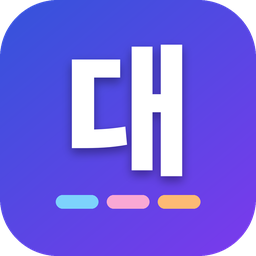
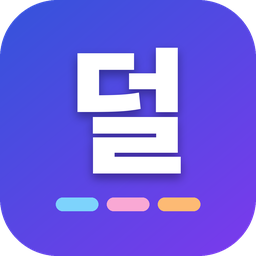
덜누름 워크로 이름 변경, 편집 화면에 떠 있는 홈 버튼
- 앱 이름·아이콘(덜)·화면 문구를 덜누름 워크로 (패키지 이름은 그대로라 덮어 설치 가능)
- 문서·사진·동영상 편집 화면에 끌어 옮길 수 있는 홈 버튼: 누르면 첫 화면으로, 편집기는 그대로 열려 있음
- 편집기마다 따로 된 작업으로 열려 서로 오갈 때 하던 작업이 남음
- 배포 파일 DeolnureumWork.apk (옛 이름 DaesinnamWork.apk도 같이)

Claude-Session: https://claude.ai/code/session_012mxsbgUq4bhBBvhf2zcgiK

diff --git a/app/src/main/assets/work/about.html b/app/src/main/assets/work/about.html
@@ -4,20 +4,20 @@
   <meta charset="UTF-8" />
   <meta name="viewport" content="width=device-width, initial-scale=1.0, viewport-fit=cover" />
   <meta http-equiv="Content-Security-Policy" content="default-src 'self'; style-src 'self'; img-src 'self' data:" />
-  <title>대신남 워크 정보</title>
+  <title>덜누름 워크 정보</title>
   <link rel="stylesheet" href="./work.css" />
 </head>
 <body>
   <div class="doc-page">
     <a class="back" href="./index.html">‹ 처음으로</a>
-    <h1>대신남 워크</h1>
+    <h1>덜누름 워크</h1>
     <p>버전 {{APP_VERSION}} · 빌드 {{BUILD}}</p>
-    <p>대신남 워크는 공개된 오픈소스 편집기 세 가지를 안드로이드용으로 고쳐 한 앱에 묶은 것입니다.
+    <p>덜누름 워크는 공개된 오픈소스 편집기 세 가지를 안드로이드용으로 고쳐 한 앱에 묶은 것입니다.
       아래 원작자들이 공개한 라이선스(Apache License 2.0, MIT)에 따라 배포하며, 각 원작의 저작권 표시와 라이선스 전문을 함께 넣었습니다.</p>
 
     <h2>포함된 오픈소스 편집기</h2>
     <table>
-      <tr><th>대신남 워크 기능</th><th>원작 (버전)</th><th>저작권자</th><th>라이선스</th></tr>
+      <tr><th>덜누름 워크 기능</th><th>원작 (버전)</th><th>저작권자</th><th>라이선스</th></tr>
       <tr><td>문서 편집</td><td><a href="https://github.com/pblsketch/ieumoffice">IeumOffice</a> ({{OFFICE_VER}})</td>
         <td>pblsketch · Mainfunc, Inc. (GenOffice)</td>
         <td><a href="./licenses/office/LICENSE.txt">Apache-2.0</a> · <a href="./licenses/office/NOTICE.txt">NOTICE</a> ·
@@ -33,10 +33,10 @@
     </table>
 
     <h2>원작에서 바꾼 것</h2>
-    <p class="muted">Apache License 2.0 제4조에 따라, 대신남 워크가 원작을 고친 내용을 알립니다.</p>
+    <p class="muted">Apache License 2.0 제4조에 따라, 덜누름 워크가 원작을 고친 내용을 알립니다.</p>
     <ul>
       <li>공통: 데스크톱·웹 프로그램을 안드로이드 WebView 안에서 돌도록 감싸고, 저장·열기·공유를 안드로이드 방식(파일 만들기·파일 고르기)으로 바꿨습니다.
-        제품 이름·아이콘·시작 화면 문구를 대신남 워크 것으로 바꿨습니다.</li>
+        제품 이름·아이콘·시작 화면 문구를 덜누름 워크 것으로 바꿨습니다.</li>
       <li>문서 편집(IeumOffice): Electron 대신 앱 안의 Node.js에서 데스크톱 메인 코드를 돌리는 호스트를 더했고,
         편집기 화면이 쓰는 자체 프로토콜 주소·CSP를 앱 주소로 바꿨으며, 엑셀 엔진(xlsx-sidecar)을 안드로이드용으로 컴파일했습니다.
         편집기 안에 표시되는 제품 이름을 바꿨습니다.</li>
@@ -46,7 +46,7 @@
     </ul>
 
     <h2>상표</h2>
-    <p class="muted">대신남 워크는 pblsketch, Mainfunc, Inc., ArtCraft 팀(storytold)과 관련이 없으며 그들의 후원이나 보증을 받지 않았습니다.
+    <p class="muted">덜누름 워크는 pblsketch, Mainfunc, Inc., ArtCraft 팀(storytold)과 관련이 없으며 그들의 후원이나 보증을 받지 않았습니다.
       "IeumOffice", "이음오피스", "GenOffice", "PhotoCraft", "FilmCraft", "ArtCraft"는 각 소유자의 이름이며, 위 표에서는 출처를 밝히려는 목적으로만 씁니다.
       편집기 안의 일부 메뉴·안내 문구에는 원작 이름이 그대로 남아 있을 수 있습니다.
       Microsoft, Word, Excel, PowerPoint, 한글, HWP, Adobe, Photoshop 등은 각 회사의 상표이며, 여는 파일 형식을 설명하는 데만 씁니다.</p>

diff --git a/node/fake-electron.js b/node/fake-electron.js
@@ -213,7 +213,7 @@ function createElectron(session) {
     clearStorageData() { return Promise.resolve(); },
     resolveProxy() { return Promise.resolve("DIRECT"); },
     setProxy() { return Promise.resolve(); },
-    getUserAgent() { return "DaesinnamWork-Android"; },
+    getUserAgent() { return "DeolnureumWork-Android"; },
     setUserAgent() {},
     fetch: (...a) => fetch(...a),
     setPreloads() {},
@@ -229,7 +229,7 @@ function createElectron(session) {
   // ---------- app ----------
   const dirs = session.dirs;
   const app = lenient(Object.assign(new EventEmitter(), {
-    name: "DaesinnamWork",
+    name: "DeolnureumWork",
     isPackaged: true,
     commandLine: lenient({ appendSwitch() {}, appendArgument() {}, hasSwitch() { return false; }, getSwitchValue() { return ""; }, removeSwitch() {} }, "commandLine"),
     dock: undefined,
@@ -247,7 +247,7 @@ function createElectron(session) {
     getPreferredSystemLanguages() { return ["ko-KR"]; },
     getLocaleCountryCode() { return "KR"; },
     getVersion() { return session.appVersion; },
-    getName() { return "DaesinnamWork"; },
+    getName() { return "DeolnureumWork"; },
     setName() {},
     quit() { session.log("app.quit() 무시"); },
     exit() { session.log("app.exit() 무시"); },

diff --git a/app/src/main/assets/work/index.html b/app/src/main/assets/work/index.html
@@ -4,14 +4,14 @@
   <meta charset="UTF-8" />
   <meta name="viewport" content="width=device-width, initial-scale=1.0, viewport-fit=cover" />
   <meta http-equiv="Content-Security-Policy" content="default-src 'self'; script-src 'self'; style-src 'self'; img-src 'self' data:" />
-  <title>대신남 워크</title>
+  <title>덜누름 워크</title>
   <link rel="stylesheet" href="./work.css" />
 </head>
 <body>
   <header class="top">
     <img src="./icon.png" alt="" class="logo" />
     <div>
-      <h1>대신남 워크</h1>
+      <h1>덜누름 워크</h1>
       <p class="sub">문서 · 사진 · 동영상을 한 앱에서</p>
     </div>
   </header>

diff --git a/web/home/index.html b/web/home/index.html
@@ -4,12 +4,12 @@
   <meta charset="UTF-8" />
   <meta name="viewport" content="width=device-width, initial-scale=1.0, viewport-fit=cover" />
   <meta http-equiv="Content-Security-Policy" content="default-src 'self'; script-src 'self'; style-src 'self'; img-src 'self' data:" />
-  <title>대신남 워크 · 문서</title>
+  <title>덜누름 워크 · 문서</title>
   <link rel="stylesheet" href="./home.css" />
 </head>
 <body>
   <header>
-    <h1>대신남 워크 · 문서</h1>
+    <h1>덜누름 워크 · 문서</h1>
     <p class="sub">워드 · 엑셀 · 파워포인트 · 한글 · PDF</p>
   </header>
 

diff --git a/app/src/main/assets/film-bridge.js b/app/src/main/assets/film-bridge.js
@@ -1,5 +1,5 @@
 /*
- * 대신남 워크 동영상 편집 — 편집기(FilmCraft 웹 빌드)와 앱을 잇는 작은 스크립트 (페이지보다 먼저 실행됨)
+ * 덜누름 워크 동영상 편집 — 편집기(FilmCraft 웹 빌드)와 앱을 잇는 작은 스크립트 (페이지보다 먼저 실행됨)
  *
  * 1) 저장: 웹판은 저장·내보내기(프로젝트, 동영상, 오디오, 자막 …)를 "다운로드"(<a download href=blob:>.click())로 합니다.
  *    그 순간을 가로채 파일 내용을 앱으로 넘기면, 앱이 안드로이드 "파일 만들기"로 저장합니다.

diff --git a/app/src/main/assets/photo-bridge.js b/app/src/main/assets/photo-bridge.js
@@ -1,5 +1,5 @@
 /*
- * 대신남 워크 사진 편집 — 편집기(PhotoCraft 웹 빌드)와 앱을 잇는 작은 스크립트 (페이지보다 먼저 실행됨)
+ * 덜누름 워크 사진 편집 — 편집기(PhotoCraft 웹 빌드)와 앱을 잇는 작은 스크립트 (페이지보다 먼저 실행됨)
  *
  * 1) 저장: 웹판은 저장·내보내기를 "다운로드"(<a download href=blob:>.click())로 합니다.
  *    그 순간을 가로채 파일 내용을 앱으로 넘기면, 앱이 안드로이드 "파일 만들기"로 저장합니다.

diff --git a/web/shim/electron-shim.js b/web/shim/electron-shim.js
@@ -1,5 +1,5 @@
 /*
- * 대신남 워크 문서 편집 — Electron 대체 셈 (IeumOffice 데스크톱 화면을 그대로 쓰기 위한 것)
+ * 덜누름 워크 문서 편집 — Electron 대체 셈 (IeumOffice 데스크톱 화면을 그대로 쓰기 위한 것)
  *
  * 데스크톱판의 preload 스크립트는 require("electron")으로 contextBridge·ipcRenderer·webUtils만 씁니다.
  * 이 파일이 그 세 가지를 흉내 내고, ipcRenderer.invoke/send가 가는 곳(원래는 Electron 메인 프로세스)을

diff --git a/web/home/home.js b/web/home/home.js
@@ -193,7 +193,7 @@
     return;
   }
 
-  // 다른 앱에서 "대신남 워크 문서로 열기"로 들어온 경우
+  // 다른 앱에서 "덜누름 워크 문서로 열기"로 들어온 경우
   if (params.get("open")) {
     if (openDoc(params.get("open"), params.get("name") || "문서", true)) return;
   }

diff --git a/app/src/main/java/com/daesinnam/work/HomeButton.java b/app/src/main/java/com/daesinnam/work/HomeButton.java
@@ -1,0 +1,120 @@
+package com.daesinnam.work;
+
+import android.annotation.SuppressLint;
+import android.app.Activity;
+import android.content.Intent;
+import android.content.SharedPreferences;
+import android.graphics.Color;
+import android.graphics.Typeface;
+import android.graphics.drawable.GradientDrawable;
+import android.util.TypedValue;
+import android.view.Gravity;
+import android.view.MotionEvent;
+import android.view.ViewConfiguration;
+import android.widget.FrameLayout;
+import android.widget.TextView;
+
+/**
+ * 편집 화면 위에 떠 있는 "홈" 버튼. 누르면 덜누름 워크 첫 화면으로 갑니다.
+ * 편집기는 각자 따로 된 작업(문서·사진·동영상)으로 남아 있어, 첫 화면에서 다시 고르면 하던 그대로 돌아옵니다.
+ *
+ * 편집기 메뉴를 가리지 않게 손가락으로 끌어 옮길 수 있고(놓으면 가까운 옆 가장자리에 붙음),
+ * 옮긴 자리는 편집기마다 기억합니다.
+ */
+final class HomeButton {
+    private HomeButton() {}
+
+    @SuppressLint("ClickableViewAccessibility")
+    static void attach(Activity activity, FrameLayout root, String key) {
+        float dp = activity.getResources().getDisplayMetrics().density;
+        int size = Math.round(46 * dp);
+        int margin = Math.round(10 * dp);
+        SharedPreferences prefs = activity.getSharedPreferences("home_button", Activity.MODE_PRIVATE);
+
+        TextView b = new TextView(activity);
+        b.setText("홈");
+        b.setTextColor(Color.WHITE);
+        b.setTextSize(TypedValue.COMPLEX_UNIT_SP, 14);
+        b.setTypeface(Typeface.DEFAULT_BOLD);
+        b.setGravity(Gravity.CENTER);
+        GradientDrawable bg = new GradientDrawable();
+        bg.setShape(GradientDrawable.OVAL);
+        bg.setColor(0xD9111111);
+        bg.setStroke(Math.round(1.5f * dp), 0x66FFFFFF);
+        b.setBackground(bg);
+        b.setElevation(8 * dp);
+        b.setContentDescription("덜누름 워크 첫 화면으로");
+        b.setFocusable(true);
+
+        FrameLayout.LayoutParams lp = new FrameLayout.LayoutParams(size, size);
+        lp.gravity = Gravity.TOP | Gravity.START;
+        root.addView(b, lp);
+
+        // 기본 자리: 오른쪽 가장자리, 화면 높이의 60% 지점
+        root.post(() -> {
+            int w = root.getWidth() - root.getPaddingLeft() - root.getPaddingRight();
+            int h = root.getHeight() - root.getPaddingTop() - root.getPaddingBottom();
+            boolean right = prefs.getBoolean(key + ".right", true);
+            float yRatio = prefs.getFloat(key + ".y", 0.6f);
+            b.setX(root.getPaddingLeft() + (right ? w - size - margin : margin));
+            b.setY(root.getPaddingTop() + clamp(yRatio * h - size / 2f, margin, h - size - margin));
+        });
+
+        int slop = ViewConfiguration.get(activity).getScaledTouchSlop();
+        float[] start = new float[4]; // 손가락 x, y, 버튼 x, y
+        boolean[] dragging = {false};
+        b.setOnTouchListener((v, e) -> {
+            switch (e.getActionMasked()) {
+                case MotionEvent.ACTION_DOWN:
+                    start[0] = e.getRawX(); start[1] = e.getRawY(); start[2] = v.getX(); start[3] = v.getY();
+                    dragging[0] = false;
+                    v.animate().scaleX(0.92f).scaleY(0.92f).setDuration(80).start();
+                    return true;
+                case MotionEvent.ACTION_MOVE: {
+                    float dx = e.getRawX() - start[0], dy = e.getRawY() - start[1];
+                    if (!dragging[0] && Math.hypot(dx, dy) > slop) dragging[0] = true;
+                    if (dragging[0]) {
+                        int left = root.getPaddingLeft(), top = root.getPaddingTop();
+                        int right = root.getWidth() - root.getPaddingRight() - size;
+                        int bottom = root.getHeight() - root.getPaddingBottom() - size;
+                        v.setX(clamp(start[2] + dx, left, right));
+                        v.setY(clamp(start[3] + dy, top, bottom));
+                    }
+                    return true;
+                }
+                case MotionEvent.ACTION_UP:
+                    v.animate().scaleX(1f).scaleY(1f).setDuration(80).start();
+                    if (dragging[0]) {
+                        // 가까운 옆 가장자리에 붙이고 자리 기억
+                        int w = root.getWidth() - root.getPaddingLeft() - root.getPaddingRight();
+                        int h = root.getHeight() - root.getPaddingTop() - root.getPaddingBottom();
+                        boolean toRight = v.getX() + size / 2f > root.getPaddingLeft() + w / 2f;
+                        float x = root.getPaddingLeft() + (toRight ? w - size - margin : margin);
+                        v.animate().x(x).setDuration(160).start();
+                        float yRatio = (v.getY() - root.getPaddingTop() + size / 2f) / Math.max(1, h);
+                        prefs.edit().putBoolean(key + ".right", toRight).putFloat(key + ".y", yRatio).apply();
+                    } else {
+                        v.performClick();
+                    }
+                    return true;
+                case MotionEvent.ACTION_CANCEL:
+                    v.animate().scaleX(1f).scaleY(1f).setDuration(80).start();
+                    return true;
+                default:
+                    return false;
+            }
+        });
+        b.setOnClickListener(v -> goHome(activity));
+    }
+
+    /** 첫 화면을 앞으로 (편집기는 닫지 않음) */
+    static void goHome(Activity activity) {
+        Intent i = new Intent(activity, HomeActivity.class)
+                .addFlags(Intent.FLAG_ACTIVITY_NEW_TASK | Intent.FLAG_ACTIVITY_SINGLE_TOP);
+        activity.startActivity(i);
+    }
+
+    private static float clamp(float v, float lo, float hi) {
+        return Math.max(lo, Math.min(hi, v));
+    }
+}

diff --git a/tools/work_assets.py b/tools/work_assets.py
@@ -1,5 +1,5 @@
 #!/usr/bin/env python3
-"""대신남 워크: 사진·동영상 편집기 웹 빌드를 에셋에 넣고, 보이는 이름을 바꾸고, 라이선스·정보 화면을 채웁니다.
+"""덜누름 워크: 사진·동영상 편집기 웹 빌드를 에셋에 넣고, 보이는 이름을 바꾸고, 라이선스·정보 화면을 채웁니다.
 
 사용법:
   python3 tools/work_assets.py --photo <PhotoCraft 웹 빌드 폴더> --film <FilmCraft 웹 빌드 폴더> \
@@ -57,7 +57,7 @@ def main() -> None:
     # ---------- 사진 편집 ----------
     photo = copy_site(pathlib.Path(a.photo), "photo")
     replace_all(photo / "index.html", [
-        ("<title>PhotoCraft</title>", "<title>대신남 워크 사진</title>", True),
+        ("<title>PhotoCraft</title>", "<title>덜누름 워크 사진</title>", True),
         ("Loading PhotoCraft&hellip;", "사진 편집을 준비하는 중&hellip;", True),
         ("This is taking longer than usual. If PhotoCraft doesn't start, its files may have failed to",
          "평소보다 오래 걸립니다. 시작하지 않으면 앱을 닫았다가 다시 열어 주세요. If the editor doesn't start, its files may have failed to", False),
@@ -69,7 +69,7 @@ def main() -> None:
     # ---------- 동영상 편집 ----------
     film = copy_site(pathlib.Path(a.film), "film")
     replace_all(film / "index.html", [
-        ("<title>FilmCraft</title>", "<title>대신남 워크 동영상</title>", True),
+        ("<title>FilmCraft</title>", "<title>덜누름 워크 동영상</title>", True),
         ("Loading FilmCraft…", "동영상 편집을 준비하는 중…", True),
         ("FilmCraft stopped working", "동영상 편집이 멈췄습니다", False),
         ('"FilmCraft failed to start:\\n"', '"동영상 편집을 시작하지 못했습니다:\\n"', False),
@@ -106,7 +106,7 @@ def main() -> None:
         ("{{OFFICE_VER}}", ver.get("office", "?"), True), ("{{PHOTO_VER}}", ver.get("photo", "?"), True),
         ("{{FILM_VER}}", ver.get("film", "?"), True), ("{{NODE_VER}}", ver.get("node", "?"), True),
     ], "about.html")
-    print("대신남 워크 에셋 완료:", ", ".join(f"{k} {v}" for k, v in ver.items()))
+    print("덜누름 워크 에셋 완료:", ", ".join(f"{k} {v}" for k, v in ver.items()))
 
 
 if __name__ == "__main__":

diff --git a/app/src/main/java/com/daesinnam/work/CraftActivity.java b/app/src/main/java/com/daesinnam/work/CraftActivity.java
@@ -61,7 +61,7 @@ import java.util.concurrent.ExecutorService;
 import java.util.concurrent.Executors;
 
 /**
- * 대신남 워크의 사진·동영상 편집 화면 공통 부분: 앱에 넣은 웹(WebAssembly) 편집기를 WebView로 띄웁니다.
+ * 덜누름 워크의 사진·동영상 편집 화면 공통 부분: 앱에 넣은 웹(WebAssembly) 편집기를 WebView로 띄웁니다.
  *
  *  https://appassets.androidplatform.net/assets/<폴더>/index.html  ← 앱에 넣은 편집기
  *  저장: 편집기의 다운로드를 연결 스크립트가 가로채 넘기면 안드로이드 "파일 만들기"로 저장
@@ -146,6 +146,7 @@ public abstract class CraftActivity extends ComponentActivity {
         root.addView(web, new FrameLayout.LayoutParams(
                 ViewGroup.LayoutParams.MATCH_PARENT, ViewGroup.LayoutParams.MATCH_PARENT));
         setContentView(root);
+        HomeButton.attach(this, root, assetDir());
         // 편집·내보내기 중에 화면이 꺼지면 WebView가 멈추므로 앱을 보는 동안은 켜 둠
         getWindow().addFlags(android.view.WindowManager.LayoutParams.FLAG_KEEP_SCREEN_ON);
         ViewCompat.setOnApplyWindowInsetsListener(root, (v, insets) -> {
@@ -243,7 +244,8 @@ public abstract class CraftActivity extends ComponentActivity {
             public void handleOnBackPressed() {
                 new AlertDialog.Builder(CraftActivity.this)
                         .setMessage(closeQuestion())
-                        .setPositiveButton("닫기", (d, w) -> finish())
+                        .setPositiveButton("닫기", (d, w) -> { HomeButton.goHome(CraftActivity.this); finish(); })
+                        .setNeutralButton("홈으로 (열어 두기)", (d, w) -> HomeButton.goHome(CraftActivity.this))
                         .setNegativeButton("계속 작업", null)
                         .show();
             }

diff --git a/app/src/main/java/com/daesinnam/work/OfficeActivity.java b/app/src/main/java/com/daesinnam/work/OfficeActivity.java
@@ -124,6 +124,7 @@ public class OfficeActivity extends ComponentActivity {
         root.addView(web, new FrameLayout.LayoutParams(
                 ViewGroup.LayoutParams.MATCH_PARENT, ViewGroup.LayoutParams.MATCH_PARENT));
         setContentView(root);
+        HomeButton.attach(this, root, "office");
         ViewCompat.setOnApplyWindowInsetsListener(root, (v, insets) -> {
             Insets bars = insets.getInsets(WindowInsetsCompat.Type.systemBars()
                     | WindowInsetsCompat.Type.displayCutout() | WindowInsetsCompat.Type.ime());
@@ -217,6 +218,8 @@ public class OfficeActivity extends ComponentActivity {
                     web.evaluateJavascript("(window.__ieumIsDirty && window.__ieumIsDirty()) || false",
                             v -> goHome("true".equals(v)));
                 } else {
+                    // 문서 첫 화면에서 뒤로: 문서 편집을 닫고 덜누름 워크 첫 화면으로
+                    HomeButton.goHome(OfficeActivity.this);
                     finish();
                 }
             }
